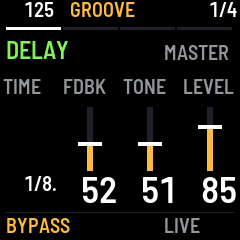
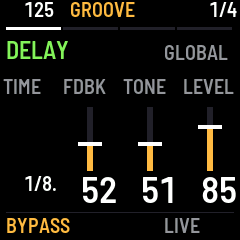
Protect restored sound from held effects and refresh live11 screens

Changed region(s): [[0.6708, 0.175, 0.9625, 0.2625]]

diff --git a/web/emu/x0x_web.c b/web/emu/x0x_web.c
@@ -83,6 +83,7 @@ __attribute__((used, visibility("default"))) uint32_t web_breakbeat(void) { retu
 /* Observable state for browser regressions; the same real UI/engine are driven. */
 __attribute__((used, visibility("default"))) int web_live_mode(void) { return live.mode; }
 __attribute__((used, visibility("default"))) int web_momentary(int pending) { return engine_momentary_state(pending); }
+__attribute__((used, visibility("default"))) int web_master_value(int i) { return engine_master_value(i); }
 __attribute__((used, visibility("default"))) int web_grid_step(void) { return eng_step[TRK_DRUM]; }
 __attribute__((used, visibility("default"))) int web_live_extra(void) { return live.extra; }
 __attribute__((used, visibility("default"))) int web_fx_view(void) { return live.fx_view; }
@@ -91,6 +92,9 @@ __attribute__((used, visibility("default"))) float web_chop_phase(void) { return
 __attribute__((used, visibility("default"))) int web_native_sound(int t,int v,int i) { return proj.sound.v[t][v][i]; }
 __attribute__((used, visibility("default"))) int web_drive_position(int part) { return live_drive_value(part); }
 __attribute__((used, visibility("default"))) int web_transpose(int part) { return proj.pat[seq.ppat[part+NKIT]].bass[part].transpose-24; }
+/* Test the storage-completion callback at a stopped boundary, before another
+ * render has retired the previously held gesture. No hardware flash is touched. */
+__attribute__((used, visibility("default"))) void web_test_restored(void) { seq.playing=0;app_restored(); }
 __attribute__((used, visibility("default"))) int web_section(int field) { return engine_section_value(field); }
 __attribute__((used, visibility("default"))) int web_auto_value(int t,int v,int i) { return engine_auto_value(t,v,i); }
 

diff --git a/firmware/src/app/ui.c b/firmware/src/app/ui.c
@@ -5016,6 +5016,7 @@ void ui_redraw(void)
  * playing); undo starts over from it */
 void app_restored(void)
 {
+    engine_live_reset(); /* retire old gesture snapshots before applying loaded pots */
     project_flash_changed();
     if (project_load() != 0)
         project_defaults();                      /* (as at power-on: a project that does not load whole) */

diff --git a/docs/PERFORMANCE-UX-NEXT.md b/docs/PERFORMANCE-UX-NEXT.md
@@ -478,3 +478,12 @@ bounded structure, dependencies/includes/licenses PASS (no new firmware deps,
 notices retained), compatibility PASS for unchanged persistent/loader contracts.
 Target/build/ABI, updated memory/stack, complete host validation and hardware
 real-time/recovery remain UNVERIFIED until the following results are recorded.
+
+Restore ordering correction: `app_restored()` now queues gesture reset before
+applying the loaded sound, in addition to its UI initialization reset. Otherwise
+an active old filter snapshot could restore over newly loaded pots. A WASM-only
+test callback simulates storage completion at a stopped boundary before another
+render has retired the old gesture; it invokes the actual restore function.
+The regression saves filter 64, moves to 54, activates temporary LP, restores,
+and asserts both the project mirror and actual engine return to 64 with no
+active/pending effect or roll. It passes. This test hook is absent on FM-1.
